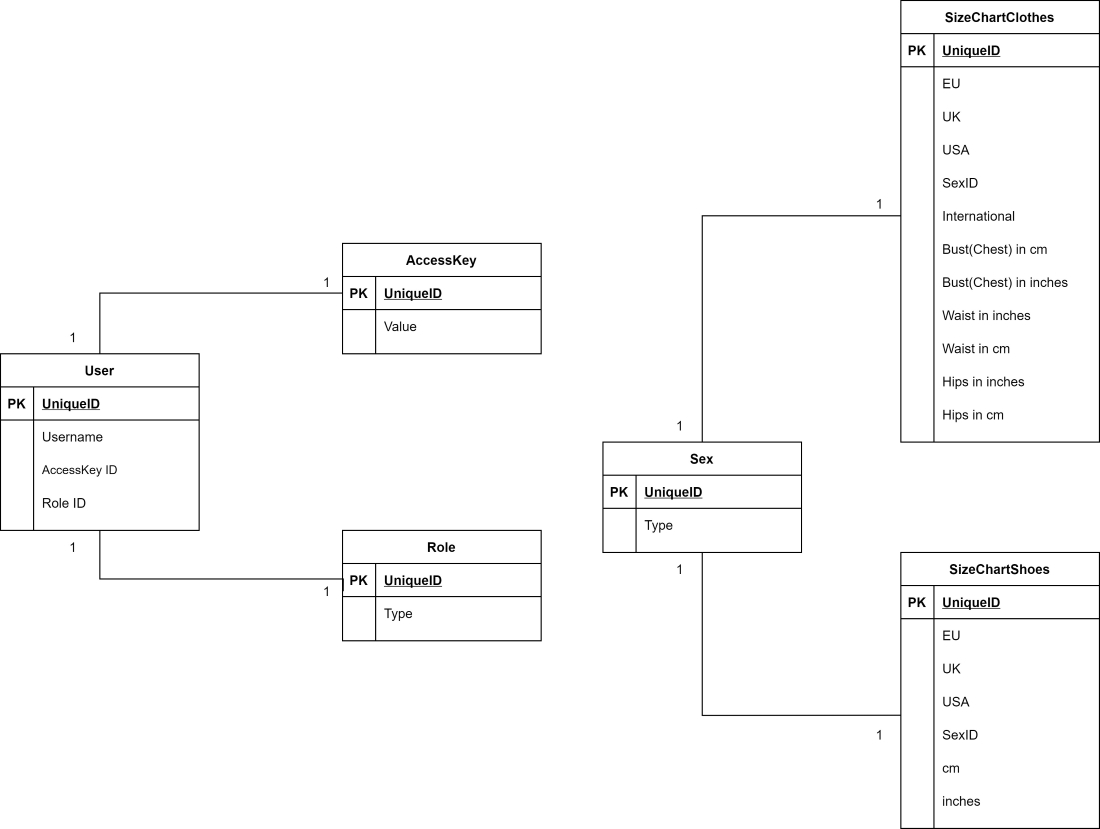
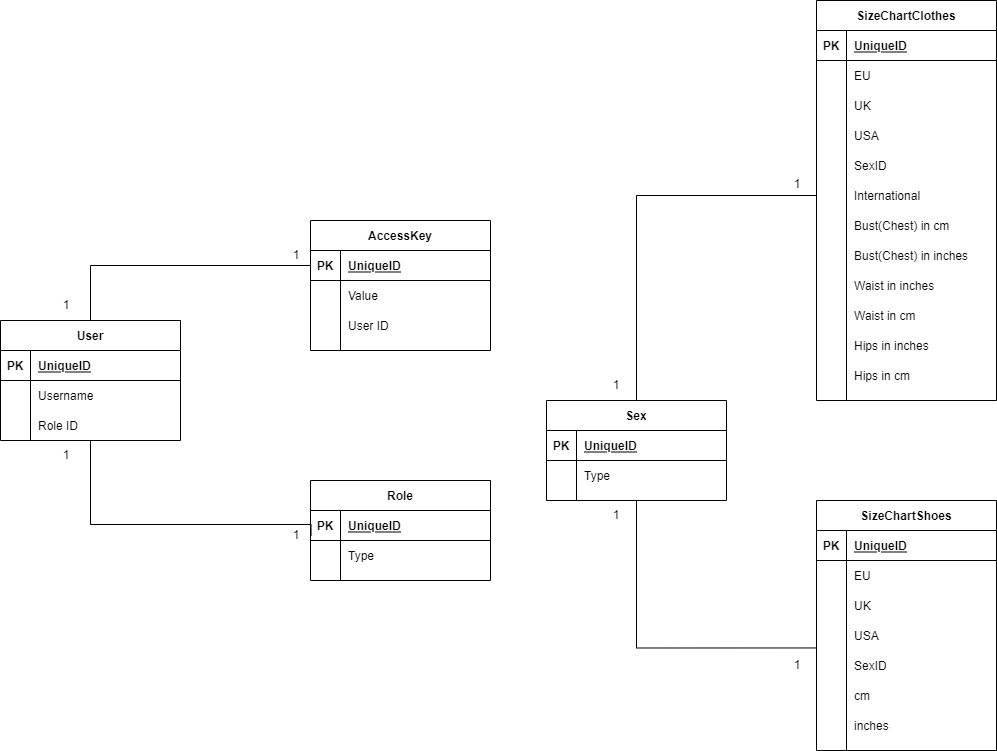
added db queries

diff --git a/src/api/sizeChartShoes/sizeChartShoes.service.ts b/src/api/sizeChartShoes/sizeChartShoes.service.ts
@@ -1,7 +1,10 @@
 /* eslint-disable @typescript-eslint/no-unused-vars */
 import HttpError from '../../errors/httpErrors';
 import { sizeChartShoesData } from '../../data/data';
+import PostgresDriver from '../../db/pg';
+import { getSizeShoesCm } from '../../db/pg/db_queries';
 import { getAdidasSizeChart, getReebokSizeChart } from '../../services/parser';
+import { QueryResult } from 'pg';
 
 class SizeChartShoes {
   private sizeNF: { [key: string]: number | string } = {
@@ -10,7 +13,7 @@ class SizeChartShoes {
     EU: 0,
     Sex: 'not found',
     cm: 0,
-    in: 0
+    inch: 0
   };
   private sizeARNF: { [key: string]: number | string } = {
     RU: 0,
@@ -20,16 +23,20 @@ class SizeChartShoes {
     Sex: 'not found',
     cm: 0
   };
+  private dbDriver = new PostgresDriver();
 
-  getSizeChartforCmFootLength(
+  async getSizeChartforCmFootLength(
     footLengthCm: number,
     sex: string
-  ): { [key: string]: number | string } {
+  ): Promise<{ [key: string]: number | string } | QueryResult> {
     try {
-      //TODO: запрос по footlength cm и sex
-      const sizeResult: { [key: string]: number | string } = sizeChartShoesData[0];
+      await this.dbDriver.connect();
+      const sizeResult: QueryResult = await this.dbDriver.executeQuery(
+        getSizeShoesCm(footLengthCm, sex)
+      );
+      await this.dbDriver.disconnect();
       if (sizeResult) {
-        return sizeResult;
+        return sizeResult.rows[0];
       }
       return this.sizeNF;
     } catch (error) {

diff --git a/src/db/pg/db_init.ts b/src/db/pg/db_init.ts
@@ -1,0 +1,55 @@
+export default `CREATE TABLE IF NOT EXISTS roles (
+    _id serial PRIMARY KEY,
+    type VARCHAR (255) UNIQUE NOT NULL
+ );
+ 
+ CREATE TABLE IF NOT EXISTS users (
+    _id serial PRIMARY KEY, 
+    username VARCHAR (255) UNIQUE NOT NULL,
+    role_id INT,
+    FOREIGN KEY (role_id)
+     REFERENCES roles (_id) 
+ );
+ 
+ CREATE TABLE IF NOT EXISTS access_keys (
+    _id serial PRIMARY KEY,
+    value VARCHAR (255) UNIQUE NOT NULL,
+    user_id INT,
+    FOREIGN KEY (user_id)
+    REFERENCES users (_id) ON DELETE CASCADE
+ );
+ 
+ CREATE TABLE IF NOT EXISTS sexes (
+    _id serial PRIMARY KEY,
+    type VARCHAR (255) UNIQUE NOT NULL
+ );
+ 
+ CREATE TABLE IF NOT EXISTS sizeChartClothes(
+    _id serial PRIMARY KEY,
+    eu float NOT NULL,
+    uk float NOT NULL,
+    usa float NOT NULL,
+    sex_id INT,
+    FOREIGN KEY (sex_id)
+     REFERENCES sexes (_id),
+    international VARCHAR (255) NOT NULL,
+    bustCm float NOT NULL,
+    bustIn float NOT NULL,
+    waistCm float NOT NULL,
+    waistIn float NOT NULL,
+    hipsCm float NOT NULL,
+    hipsIn float NOT NULL
+ );
+
+ 
+ CREATE TABLE IF NOT EXISTS sizeChartShoes(
+    _id serial PRIMARY KEY,
+    eu float NOT NULL,
+    uk float NOT NULL,
+    usa float NOT NULL,
+    sex_id INT,
+    FOREIGN KEY (sex_id)
+    REFERENCES sexes (_id),
+    cm float NOT NULL,
+    inch float NOT NULL
+ );`;

diff --git a/index.ts b/index.ts
@@ -1,16 +1,10 @@
 import fastify from 'fastify';
 import PostgresDriver from './src/db/pg';
+import dbInitQuery from './src/db/pg/db_init';
 import * as routes from './src/api';
 
 const server = fastify();
 const dbDriver = new PostgresDriver();
-
-// eslint-disable-next-line @typescript-eslint/no-unused-vars
-server.get('/ping', async (request, reply) => {
-  await dbDriver.connect();
-  await dbDriver.disconnect();
-  return 'pong\n';
-});
 
 server.route(routes.getShoesSizeCm);
 server.route(routes.getShoesSizeIn);
@@ -21,6 +15,15 @@ server.route(routes.getClothesSizeIn);
 server.route(routes.getClothesSizeReebok);
 server.route(routes.getBodyTypeCm);
 server.route(routes.getBodyTypeIn);
+
+// IIEF - Immediately invoked functional XPathExpression
+
+(async () => {
+  await dbDriver.connect();
+  const initResult = await dbDriver.executeQuery(dbInitQuery);
+  await dbDriver.disconnect();
+  console.log(`DB init result`, initResult);
+})();
 
 server.listen(3000, (err, address) => {
   if (err) {

diff --git a/src/api/sizeChartShoes/sizeChartShoes.controller.ts b/src/api/sizeChartShoes/sizeChartShoes.controller.ts
@@ -5,7 +5,7 @@ import SizeChartShoes from './sizeChartShoes.service';
 
 const service = new SizeChartShoes();
 
-export const getShoesSizeCmController = (
+export const getShoesSizeCmController = async (
   request: FastifyRequest<{
     Querystring: { footLength: number; sex: string };
   }>,
@@ -13,7 +13,8 @@ export const getShoesSizeCmController = (
 ) => {
   const { footLength, sex } = request.query;
   try {
-    const result = service.getSizeChartforCmFootLength(footLength, sex);
+    const result = await service.getSizeChartforCmFootLength(footLength, sex);
+    console.log(result);
     reply.code(200).send({ shoesSizes: result });
   } catch (error: any) {
     reply.code(500).send({ error: <HttpError>error.message });

diff --git a/src/db/pg/db_queries.ts b/src/db/pg/db_queries.ts
@@ -1,0 +1,7 @@
+export const getSizeShoesCm = (footLength: number, sex: string): string => `
+select scs.uk "UK", scs.usa "USA", scs.eu "EU", scs.cm, scs.inch inch, sx.type "Sex"
+from sizechartshoes scs, sexes sx
+where scs.cm>=${footLength}
+and sx.type='${sex}'
+and scs.sex_id=sx._id
+order by scs.cm limit 1;`;

diff --git a/src/api/sizeChartShoes/sizeChartShoes.dto.ts b/src/api/sizeChartShoes/sizeChartShoes.dto.ts
@@ -21,7 +21,7 @@ export const getShoesSizeSchema: FastifySchema = {
             EU: { type: 'number' },
             Sex: { type: 'string' },
             cm: { type: 'number' },
-            in: { type: 'number' }
+            inch: { type: 'number' }
           }
         }
       }

diff --git a/src/data/data.ts b/src/data/data.ts
@@ -15,7 +15,7 @@ export const sizeChartShoesData = [
     EU: 38,
     SexID: sexData[1].id,
     cm: 27,
-    in: 10.6
+    inch: 10.6
   }
 ];
 
